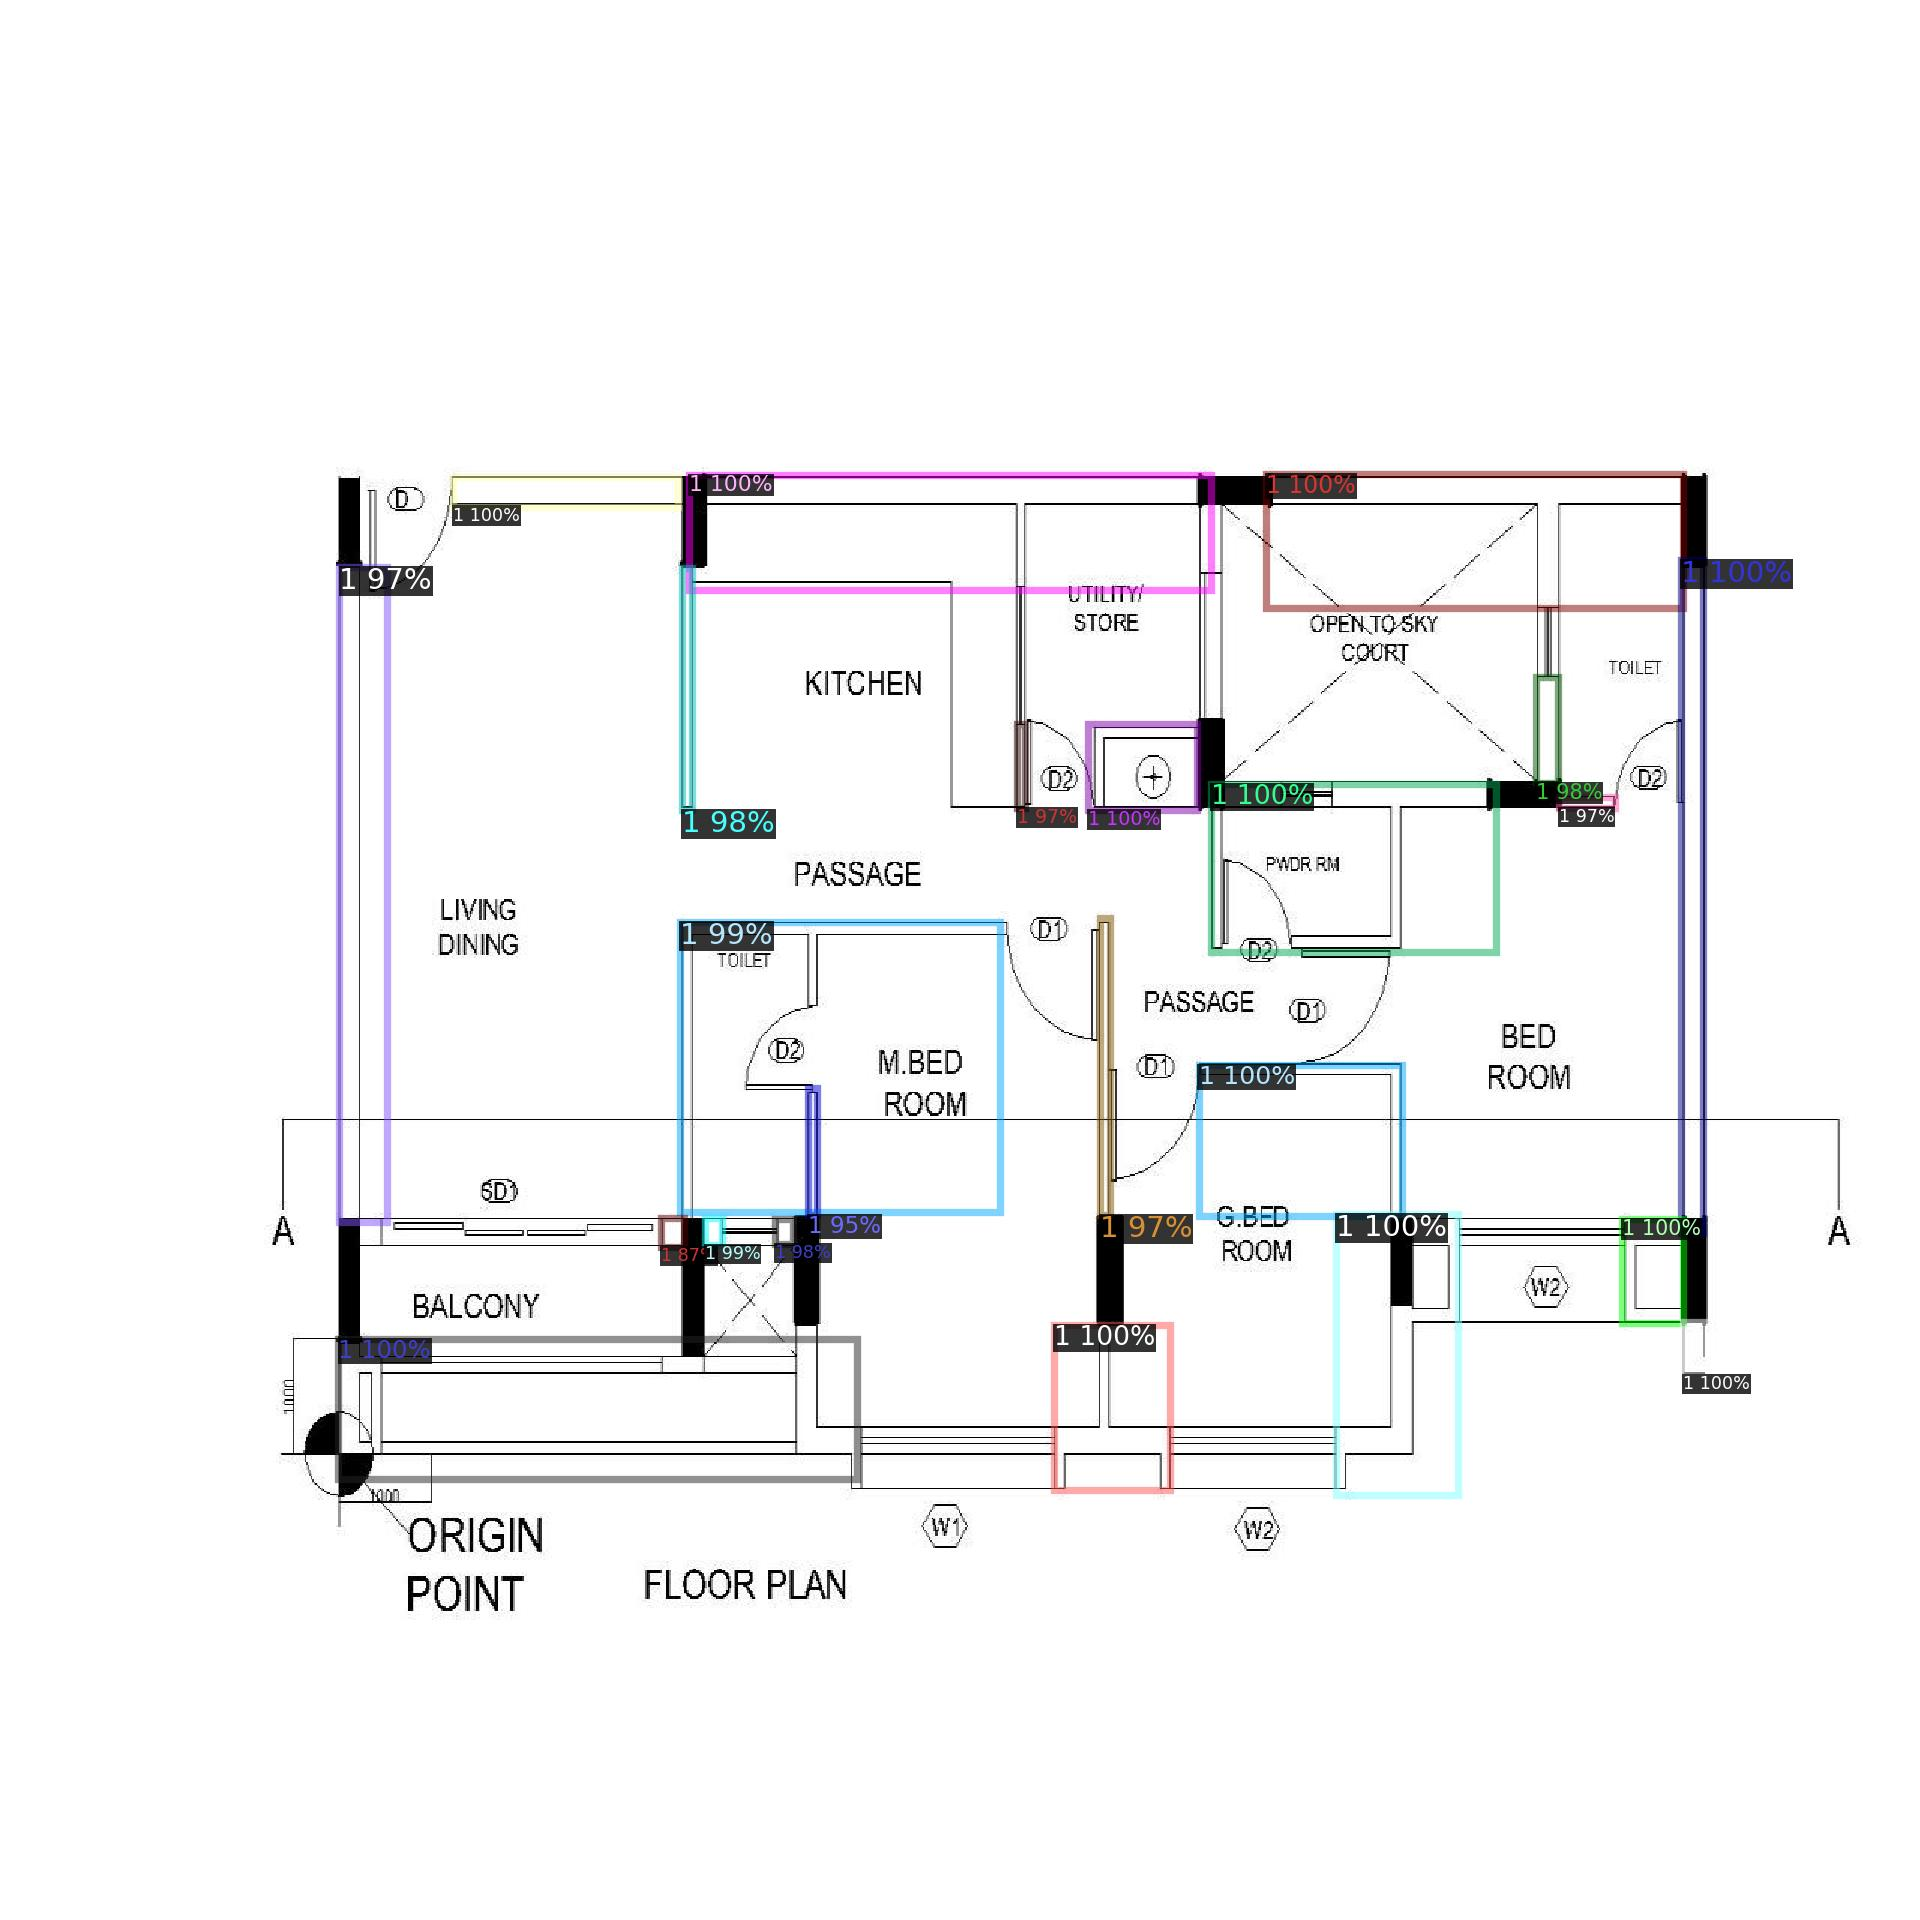
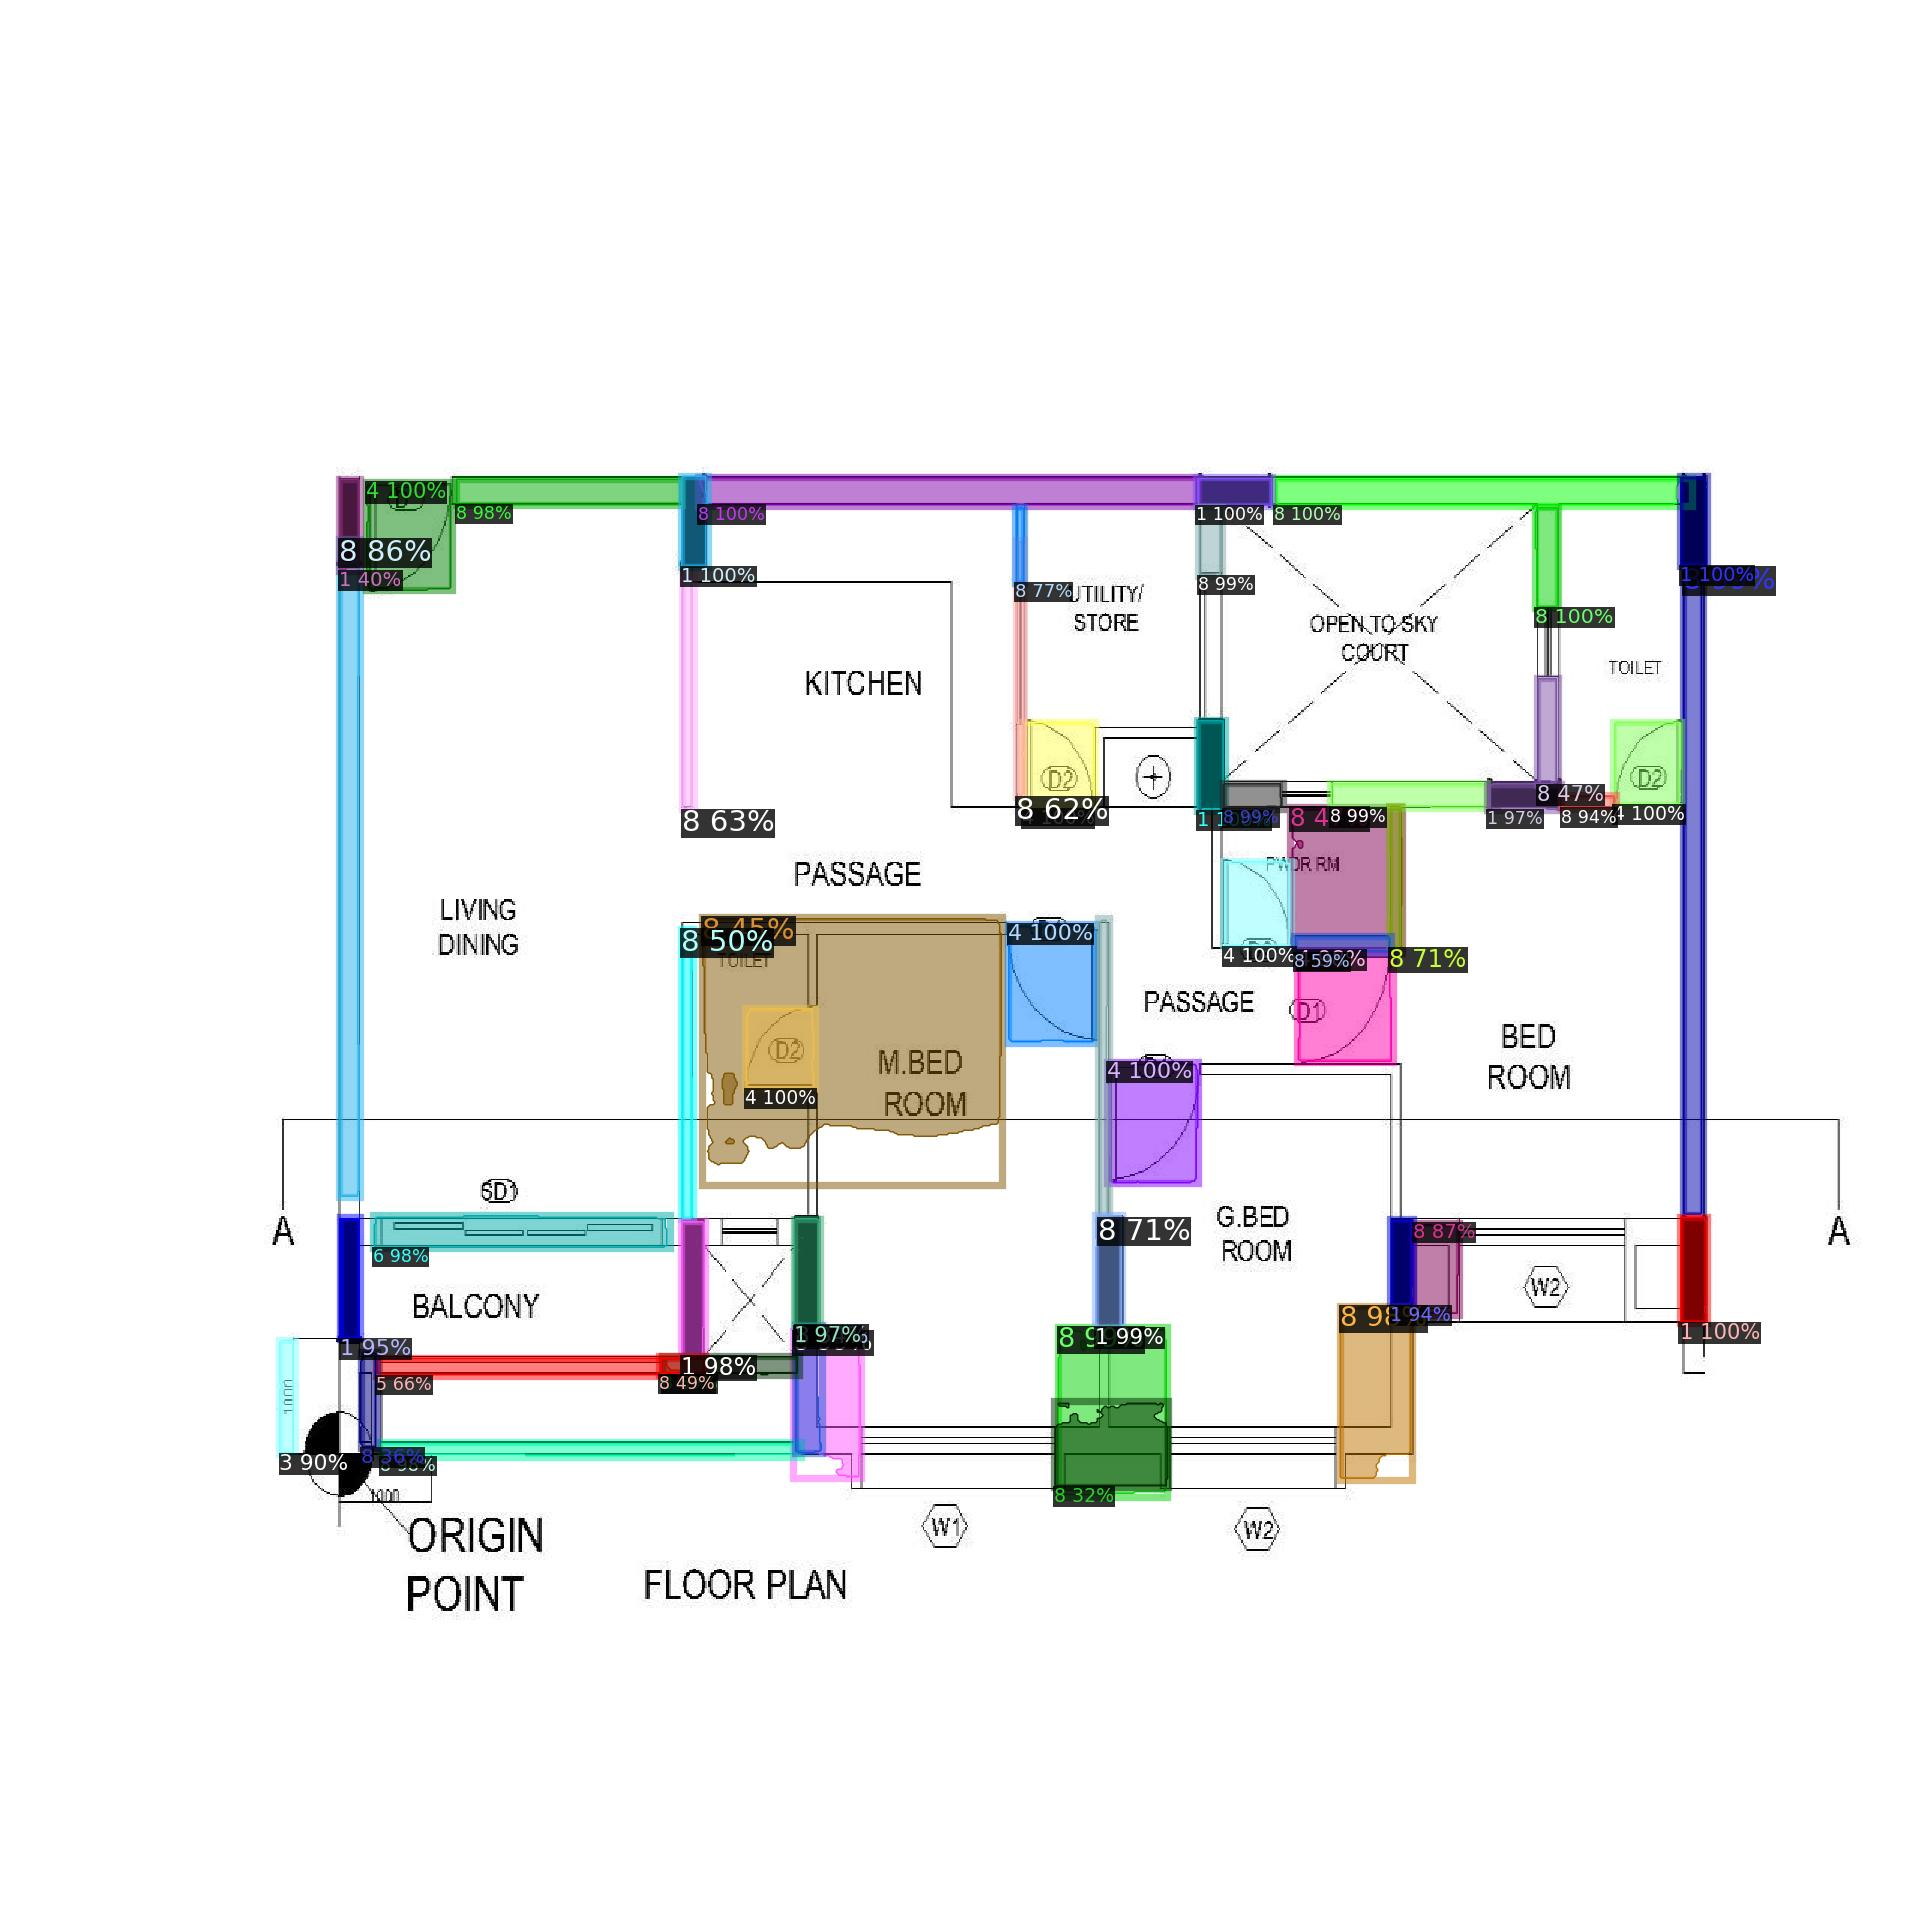
Updated Weights & Yaml
Change the Weights and Yaml directories to include the new model created in colab.

Changed region(s): [[0.125, 0.2188, 0.9375, 0.7812]]

diff --git a/app.py b/app.py
@@ -4,7 +4,7 @@ import os
 from PIL import Image
 import numpy as np
 import cv2
-from detectron2dadada.utils.visualizer import Visualizer
+from detectron2.utils.visualizer import Visualizer
 from detectron2.data import MetadataCatalog
 
 from model_setup import get_predictor
@@ -16,7 +16,7 @@ os.makedirs(app.config['UPLOAD_FOLDER'], exist_ok=True)
 os.makedirs(app.config['PROCESSED_FOLDER'], exist_ok=True)
 
 # Load model using your utility function and receive both predictor and cfg
-model, cfg = get_predictor("/Users/yb/Desktop/FloorPlan-Project/init_config-3k_iter.yaml", "/Users/yb/Desktop/FloorPlan-Project/model_final.pth")
+model, cfg = get_predictor("/Users/yb/Documents/GitHub/FloorPlan-Project/init_config.yaml", "/Users/yb/Documents/GitHub/FloorPlan-Project/model_final.pth")
 
 @app.route('/', methods=['GET', 'POST'])
 def upload_file():

diff --git a/model_setup.py b/model_setup.py
@@ -2,7 +2,7 @@
 from detectron2.engine import DefaultPredictor
 from detectron2.config import get_cfg
 
-def get_predictor(config_path, weights_path, threshold=0.5):
+def get_predictor(config_path, weights_path, threshold=0.3):
     cfg = get_cfg()
     cfg.merge_from_file(config_path)
     cfg.MODEL.WEIGHTS = weights_path
